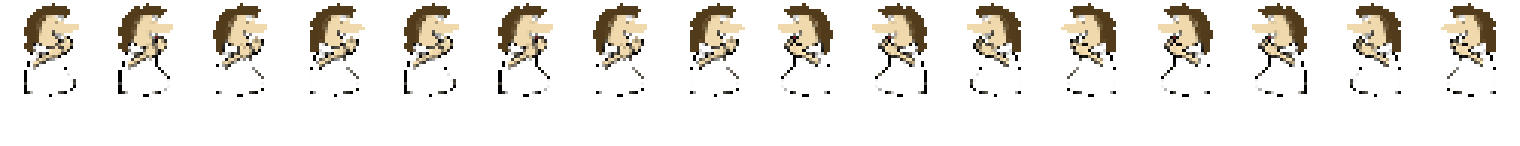
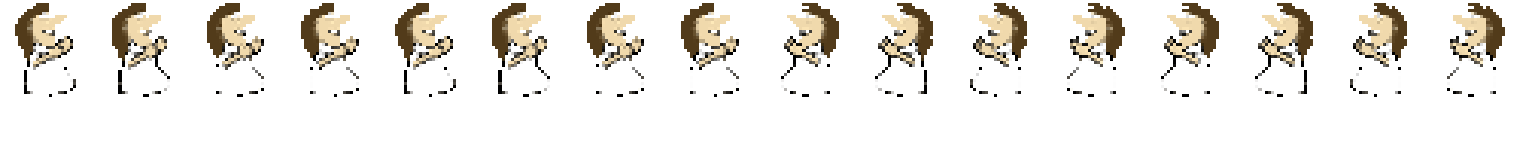
ny player-textur vid skada. Tiltar nu även huvudet bakåt lite

diff --git a/DrunkiBoy/DrunkiBoy/Level/Player.cs b/DrunkiBoy/DrunkiBoy/Level/Player.cs
@@ -15,7 +15,6 @@ namespace DrunkiBoy
         private Texture2D texUpperBody, texLowerBody, prevTexUpperBody;
         private Vector2 targetPos;
         private bool movingBack, weaponThrown;
-        private float opacity = 1f;
 
         //LB = Lower Body. För att kunna animera benen för sig så att player inte springer på stället när man kör skjutanimationen
         double timeTilNextFrameLB = 0; 
@@ -54,9 +53,8 @@ namespace DrunkiBoy
             texLowerBody = Textures.player_lower_body;
             //ResetSpawnTimer();
         }
-        public void Update(GameTime gameTime)
+        public override void Update(GameTime gameTime)
         {
-            Console.WriteLine(pos);
             switch (activePowerUp)
             {
                 case 0: //Vanlig
@@ -296,7 +294,6 @@ namespace DrunkiBoy
             if (movingBack) 
             {
                 texUpperBody = Textures.player_upper_body_hurt;
-                opacity = 0.9f;
                 if (pos.X > targetPos.X)
                 {
                     pos.X -= (float)gameTime.ElapsedGameTime.TotalSeconds * 350;
@@ -309,7 +306,6 @@ namespace DrunkiBoy
                 }
                 if (Math.Abs(targetPos.X - pos.X) < 10)
                 {
-                    opacity = 1f;
                     weaponThrown = false;
                     movingBack = false;
                     particleEngine.isActive = false;
@@ -521,8 +517,8 @@ namespace DrunkiBoy
         {
             if (!animateShooting)//Borde kunna få in den här någon annanstans men kommer inte på nåt bra nu. srcRect är samma om man inte skjuter
                 srcRectLB = srcRect;
-            spriteBatch.Draw(texLowerBody, pos, srcRectLB, Color.White * opacity, 0, Vector2.Zero, 1f, SpriteEffects.None, 0);
-            spriteBatch.Draw(texUpperBody, pos, srcRect, Color.White * opacity, 0, Vector2.Zero, 1f, SpriteEffects.None, drawLayer);
+            spriteBatch.Draw(texLowerBody, pos, srcRectLB, Color.White, 0, Vector2.Zero, 1f, SpriteEffects.None, 0);
+            spriteBatch.Draw(texUpperBody, pos, srcRect, Color.White, 0, Vector2.Zero, 1f, SpriteEffects.None, drawLayer);
             if (particleEngine.isActive)
                 particleEngine.Draw(spriteBatch);
         }   

diff --git a/DrunkiBoy/DrunkiBoy/ParticleEngine2.cs b/DrunkiBoy/DrunkiBoy/ParticleEngine2.cs
@@ -48,11 +48,12 @@ namespace DrunkiBoy
             Texture2D texture = textures[random.Next(textures.Count)];
             Vector2 position = EmitterLocation;
             Vector2 velocity = new Vector2((float)(random.NextDouble() * 2 - 1)/3, -Math.Abs((float)(random.NextDouble() * 2 - 1)/3));
+            velocity.Y += -0.3f;
             float angle = 0;
             float angularVelocity = 0.1f * (float)(random.NextDouble() * 2 - 1);
             Color color = colors[(random.Next(0, colorTexture.Height) * colorTexture.Width) +
                                   random.Next(0, colorTexture.Width)]; //Slumpar fram en färg från colorTexture
-            float size = (float)random.NextDouble()/10;
+            float size = (float)random.NextDouble()/5;
             int ttl = 20 + random.Next(40);
             return new Particle(texture, position, velocity, angle, angularVelocity, color, size, ttl);
         }

diff --git a/DrunkiBoy/DrunkiBoy/Level/AnimatedObject.cs b/DrunkiBoy/DrunkiBoy/Level/AnimatedObject.cs
@@ -30,7 +30,7 @@ namespace DrunkiBoy
             facingSrcRects = new Rectangle[2] { new Rectangle(nrFrames * srcRect.Width, srcRect.Y, srcRect.Width, srcRect.Height), srcRect };
         }
 
-        public void Update(GameTime gameTime)
+        public virtual void Update(GameTime gameTime)
         {
             if (!(this is Player)) //Player sköter sin egen nedräkning i och med att den bara ska räkna när player rör sig. Andra objekt animeras hela tiden.
                 timeTilNextFrame -= gameTime.ElapsedGameTime.TotalMilliseconds; //Animation time counter

diff --git a/DrunkiBoy/DrunkiBoy/Level/Items/Painkiller.cs b/DrunkiBoy/DrunkiBoy/Level/Items/Painkiller.cs
@@ -25,7 +25,7 @@ namespace DrunkiBoy
              moving = true;
              particleEngine.isActive = true;
          }
-         public void Update(GameTime gameTime)
+         public override void Update(GameTime gameTime)
          {
              if (moving)
              {

diff --git a/DrunkiBoy/DrunkiBoy/Level/Items/Heart.cs b/DrunkiBoy/DrunkiBoy/Level/Items/Heart.cs
@@ -26,7 +26,7 @@ namespace DrunkiBoy
             particleEngine.isActive = true;
         }
         
-        public void Update(GameTime gameTime)
+        public override void Update(GameTime gameTime)
         {
             if (moving)
             {
